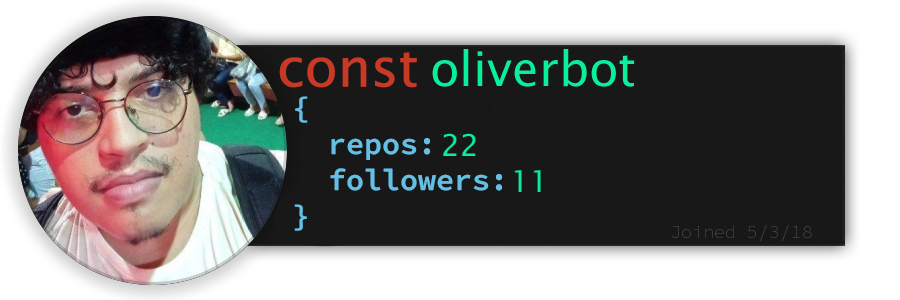
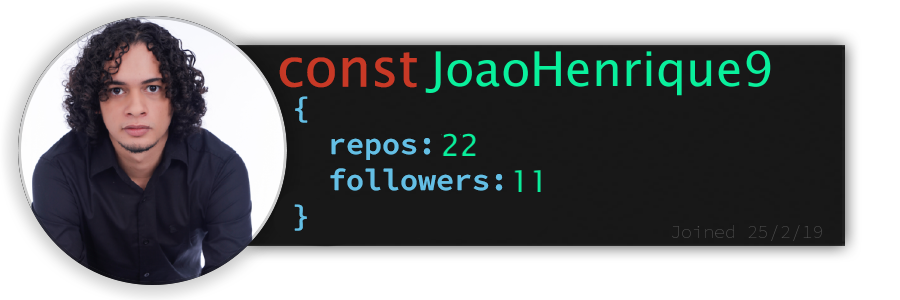
Generated readme

Changed region(s): [[0.0, 0.03, 0.3422, 0.96], [0.4667, 0.15, 0.8711, 0.33], [0.84, 0.75, 0.9022, 0.81]]

diff --git a/src/data.js b/src/data.js
@@ -27,7 +27,7 @@ module.exports = {
       },
       {
         type: 'badge',
-        name: 'website',
+        name: 'notion',
         href: 'http://bit.ly/biblioteca-devops',
         logo: 'notion',
       },
@@ -108,28 +108,16 @@ module.exports = {
     },
     links: [
       {
-        name: 'twitter',
-        href: 'https://twitter.com/imnickgabe',
-      },
-      {
         name: 'linkedin',
-        href: 'https://linkedin.com/in/nickgabe',
+        href: 'https://linkedin.com/in/joao-victor-barbosa-andrade/',
       },
       {
         name: 'email',
         logo: 'gmail',
-        href: 'mailto:nicolasgabrielctt@gmail.com',
+        href: 'mailto:jvbaprof@gmail.com',
       },
       {
-        name: 'npm',
-        href: 'https://www.npmjs.com/~nick-gabe',
-      },
-      {
-        name: 'codepen',
-        href: 'https://codepen.io/nick-gabe',
-      },
-      {
-        name: 'imnickgabe',
+        name: 'azbis',
         logo: 'discord',
         labelColor: colors.secondary.base,
       },

diff --git a/README.md b/README.md
@@ -1,6 +1,6 @@
 <p align="center"><img src="src/resources/images/nickgabe.png" width="600"/></p>
 <p align="center"><a href="https://linkedin.com/in/joao-victor-barbosa-andrade/"><img src="https://img.shields.io/badge/linkedin-4D4577?style=for-the-badge&logoColor=F2F2F2&logo=linkedin"/></a>
-<a href="http://bit.ly/biblioteca-devops"><img src="https://img.shields.io/badge/website-4D4577?logo=notion&style=for-the-badge&logoColor=F2F2F2"/></a>
+<a href="http://bit.ly/biblioteca-devops"><img src="https://img.shields.io/badge/notion-4D4577?logo=notion&style=for-the-badge&logoColor=F2F2F2"/></a>
 <img src="https://komarev.com/ghpvc/?username=JvDev-hash&style=for-the-badge&color=4D4577&logoColor=F2F2F2&logo=undefined"/></p>
 <p align="center">👋 Heyyy! I'm João Victor, a brazilian programmer and future Devops engineer.</p>
 
@@ -13,46 +13,46 @@
 
 ## **Skills wall:**
 
-<p align="left"><img src="https://img.shields.io/badge/express.js-393359?logo=express&style=for-the-badge&logoColor=F2F2F2"/>
-<img src="https://img.shields.io/badge/python-393359?logo=python&style=for-the-badge&logoColor=F2F2F2"/>
-<img src="https://img.shields.io/badge/shell%20script-4D4577?logo=gnu-bash&style=for-the-badge&logoColor=F2F2F2"/>
-<img src="https://img.shields.io/badge/photoshop-4D4577?logo=adobe-photoshop&style=for-the-badge&logoColor=F2F2F2"/>
-<img src="https://img.shields.io/badge/jest-393359?logo=jest&style=for-the-badge&logoColor=F2F2F2"/>
-<img src="https://img.shields.io/badge/figma-4D4577?logo=figma&style=for-the-badge&logoColor=F2F2F2"/>
-<img src="https://img.shields.io/badge/firebase-393359?logo=firebase&style=for-the-badge&logoColor=F2F2F2"/>
-<img src="https://img.shields.io/badge/git-F73C7B?logo=git&style=for-the-badge&logoColor=F2F2F2"/>
-<img src="https://img.shields.io/badge/graphql-4D4577?logo=graphql&style=for-the-badge&logoColor=F2F2F2"/>
-<img src="https://img.shields.io/badge/github%20actions-F73C7B?logo=github%20actions&style=for-the-badge&logoColor=F2F2F2"/>
-<img src="https://img.shields.io/badge/storybook-4D4577?logo=storybook&style=for-the-badge&logoColor=F2F2F2"/>
-<img src="https://img.shields.io/badge/ant--design-F73C7B?logo=ant-design&style=for-the-badge&logoColor=F2F2F2"/>
-<img src="https://img.shields.io/badge/sass-4D4577?logo=sass&style=for-the-badge&logoColor=F2F2F2"/>
-<img src="https://img.shields.io/badge/react-F73C7B?logo=react&style=for-the-badge&logoColor=F2F2F2"/>
-<img src="https://img.shields.io/badge/bootstrap-393359?logo=bootstrap&style=for-the-badge&logoColor=F2F2F2"/>
-<img src="https://img.shields.io/badge/fastapi-F73C7B?logo=fastapi&style=for-the-badge&logoColor=F2F2F2"/>
-<img src="https://img.shields.io/badge/heroku-4D4577?logo=heroku&style=for-the-badge&logoColor=F2F2F2"/>
+<p align="left"><img src="https://img.shields.io/badge/netlify-4D4577?logo=netlify&style=for-the-badge&logoColor=F2F2F2"/>
+<img src="https://img.shields.io/badge/html5-393359?logo=html5&style=for-the-badge&logoColor=F2F2F2"/>
 <img src="https://img.shields.io/badge/css3-F73C7B?logo=css3&style=for-the-badge&logoColor=F2F2F2"/>
-<img src="https://img.shields.io/badge/docker-F73C7B?logo=docker&style=for-the-badge&logoColor=F2F2F2"/>
-<img src="https://img.shields.io/badge/tailwindcss-F73C7B?logo=tailwindcss&style=for-the-badge&logoColor=F2F2F2"/>
-<img src="https://img.shields.io/badge/styled%20components-4D4577?logo=styled%20components&style=for-the-badge&logoColor=F2F2F2"/>
-<img src="https://img.shields.io/badge/markdown-393359?logo=markdown&style=for-the-badge&logoColor=F2F2F2"/>
-<img src="https://img.shields.io/badge/node.js-F73C7B?logo=node.js&style=for-the-badge&logoColor=F2F2F2"/>
-<img src="https://img.shields.io/badge/github-4D4577?logo=github&style=for-the-badge&logoColor=F2F2F2"/>
-<img src="https://img.shields.io/badge/visual%20studio%20code-393359?logo=visual%20studio%20code&style=for-the-badge&logoColor=F2F2F2"/>
-<img src="https://img.shields.io/badge/jquery-393359?logo=jquery&style=for-the-badge&logoColor=F2F2F2"/>
-<img src="https://img.shields.io/badge/mongodb-4D4577?logo=mongodb&style=for-the-badge&logoColor=F2F2F2"/>
-<img src="https://img.shields.io/badge/sqlite-393359?logo=sqlite&style=for-the-badge&logoColor=F2F2F2"/>
-<img src="https://img.shields.io/badge/flask-393359?logo=flask&style=for-the-badge&logoColor=F2F2F2"/>
-<img src="https://img.shields.io/badge/github%20pages-4D4577?logo=github&style=for-the-badge&logoColor=F2F2F2"/>
-<img src="https://img.shields.io/badge/html5-4D4577?logo=html5&style=for-the-badge&logoColor=F2F2F2"/>
-<img src="https://img.shields.io/badge/npm-4D4577?logo=npm&style=for-the-badge&logoColor=F2F2F2"/>
-<img src="https://img.shields.io/badge/typescript-F73C7B?logo=typescript&style=for-the-badge&logoColor=F2F2F2"/>
-<img src="https://img.shields.io/badge/jira-393359?logo=jira&style=for-the-badge&logoColor=F2F2F2"/>
-<img src="https://img.shields.io/badge/strapi-4D4577?logo=strapi&style=for-the-badge&logoColor=F2F2F2"/>
-<img src="https://img.shields.io/badge/chakra-4D4577?logo=chakraui&style=for-the-badge&logoColor=F2F2F2"/>
-<img src="https://img.shields.io/badge/javascript-F73C7B?logo=javascript&style=for-the-badge&logoColor=F2F2F2"/>
-<img src="https://img.shields.io/badge/vercel-4D4577?logo=vercel&style=for-the-badge&logoColor=F2F2F2"/>
 <img src="https://img.shields.io/badge/react%20native-393359?logo=react&style=for-the-badge&logoColor=F2F2F2"/>
-<img src="https://img.shields.io/badge/netlify-393359?logo=netlify&style=for-the-badge&logoColor=F2F2F2"/></p>
+<img src="https://img.shields.io/badge/react-F73C7B?logo=react&style=for-the-badge&logoColor=F2F2F2"/>
+<img src="https://img.shields.io/badge/visual%20studio%20code-393359?logo=visual%20studio%20code&style=for-the-badge&logoColor=F2F2F2"/>
+<img src="https://img.shields.io/badge/markdown-393359?logo=markdown&style=for-the-badge&logoColor=F2F2F2"/>
+<img src="https://img.shields.io/badge/github%20pages-4D4577?logo=github&style=for-the-badge&logoColor=F2F2F2"/>
+<img src="https://img.shields.io/badge/node.js-F73C7B?logo=node.js&style=for-the-badge&logoColor=F2F2F2"/>
+<img src="https://img.shields.io/badge/github%20actions-F73C7B?logo=github%20actions&style=for-the-badge&logoColor=F2F2F2"/>
+<img src="https://img.shields.io/badge/bootstrap-393359?logo=bootstrap&style=for-the-badge&logoColor=F2F2F2"/>
+<img src="https://img.shields.io/badge/tailwindcss-F73C7B?logo=tailwindcss&style=for-the-badge&logoColor=F2F2F2"/>
+<img src="https://img.shields.io/badge/python-393359?logo=python&style=for-the-badge&logoColor=F2F2F2"/>
+<img src="https://img.shields.io/badge/heroku-393359?logo=heroku&style=for-the-badge&logoColor=F2F2F2"/>
+<img src="https://img.shields.io/badge/chakra-393359?logo=chakraui&style=for-the-badge&logoColor=F2F2F2"/>
+<img src="https://img.shields.io/badge/git-F73C7B?logo=git&style=for-the-badge&logoColor=F2F2F2"/>
+<img src="https://img.shields.io/badge/javascript-F73C7B?logo=javascript&style=for-the-badge&logoColor=F2F2F2"/>
+<img src="https://img.shields.io/badge/jquery-4D4577?logo=jquery&style=for-the-badge&logoColor=F2F2F2"/>
+<img src="https://img.shields.io/badge/sass-393359?logo=sass&style=for-the-badge&logoColor=F2F2F2"/>
+<img src="https://img.shields.io/badge/typescript-F73C7B?logo=typescript&style=for-the-badge&logoColor=F2F2F2"/>
+<img src="https://img.shields.io/badge/photoshop-393359?logo=adobe-photoshop&style=for-the-badge&logoColor=F2F2F2"/>
+<img src="https://img.shields.io/badge/strapi-4D4577?logo=strapi&style=for-the-badge&logoColor=F2F2F2"/>
+<img src="https://img.shields.io/badge/jest-393359?logo=jest&style=for-the-badge&logoColor=F2F2F2"/>
+<img src="https://img.shields.io/badge/storybook-393359?logo=storybook&style=for-the-badge&logoColor=F2F2F2"/>
+<img src="https://img.shields.io/badge/docker-F73C7B?logo=docker&style=for-the-badge&logoColor=F2F2F2"/>
+<img src="https://img.shields.io/badge/graphql-393359?logo=graphql&style=for-the-badge&logoColor=F2F2F2"/>
+<img src="https://img.shields.io/badge/firebase-393359?logo=firebase&style=for-the-badge&logoColor=F2F2F2"/>
+<img src="https://img.shields.io/badge/npm-4D4577?logo=npm&style=for-the-badge&logoColor=F2F2F2"/>
+<img src="https://img.shields.io/badge/fastapi-F73C7B?logo=fastapi&style=for-the-badge&logoColor=F2F2F2"/>
+<img src="https://img.shields.io/badge/flask-4D4577?logo=flask&style=for-the-badge&logoColor=F2F2F2"/>
+<img src="https://img.shields.io/badge/figma-393359?logo=figma&style=for-the-badge&logoColor=F2F2F2"/>
+<img src="https://img.shields.io/badge/mongodb-4D4577?logo=mongodb&style=for-the-badge&logoColor=F2F2F2"/>
+<img src="https://img.shields.io/badge/shell%20script-4D4577?logo=gnu-bash&style=for-the-badge&logoColor=F2F2F2"/>
+<img src="https://img.shields.io/badge/express.js-4D4577?logo=express&style=for-the-badge&logoColor=F2F2F2"/>
+<img src="https://img.shields.io/badge/vercel-4D4577?logo=vercel&style=for-the-badge&logoColor=F2F2F2"/>
+<img src="https://img.shields.io/badge/github-4D4577?logo=github&style=for-the-badge&logoColor=F2F2F2"/>
+<img src="https://img.shields.io/badge/styled%20components-393359?logo=styled%20components&style=for-the-badge&logoColor=F2F2F2"/>
+<img src="https://img.shields.io/badge/sqlite-393359?logo=sqlite&style=for-the-badge&logoColor=F2F2F2"/>
+<img src="https://img.shields.io/badge/jira-4D4577?logo=jira&style=for-the-badge&logoColor=F2F2F2"/>
+<img src="https://img.shields.io/badge/ant--design-F73C7B?logo=ant-design&style=for-the-badge&logoColor=F2F2F2"/></p>
 
 ## **Recent projects:**
 
@@ -67,18 +67,15 @@
 
 *Click to be redirected*
 
-<p align="left"><a href="https://twitter.com/imnickgabe"><img src="https://img.shields.io/badge/twitter-4D4577?style=for-the-badge&logoColor=F2F2F2&logo=twitter"/></a>
-<a href="https://linkedin.com/in/nickgabe"><img src="https://img.shields.io/badge/linkedin-4D4577?style=for-the-badge&logoColor=F2F2F2&logo=linkedin"/></a>
-<a href="mailto:nicolasgabrielctt@gmail.com"><img src="https://img.shields.io/badge/email-4D4577?logo=gmail&style=for-the-badge&logoColor=F2F2F2"/></a>
-<a href="https://www.npmjs.com/~nick-gabe"><img src="https://img.shields.io/badge/npm-4D4577?style=for-the-badge&logoColor=F2F2F2&logo=npm"/></a>
-<a href="https://codepen.io/nick-gabe"><img src="https://img.shields.io/badge/codepen-4D4577?style=for-the-badge&logoColor=F2F2F2&logo=codepen"/></a>
-<img src="https://img.shields.io/badge/imnickgabe-4D4577?logo=discord&labelColor=393359&style=for-the-badge&logoColor=F2F2F2"/></p>
+<p align="left"><a href="https://linkedin.com/in/joao-victor-barbosa-andrade/"><img src="https://img.shields.io/badge/linkedin-4D4577?style=for-the-badge&logoColor=F2F2F2&logo=linkedin"/></a>
+<a href="mailto:jvbaprof@gmail.com"><img src="https://img.shields.io/badge/email-4D4577?logo=gmail&style=for-the-badge&logoColor=F2F2F2"/></a>
+<img src="https://img.shields.io/badge/azbis-4D4577?logo=discord&labelColor=393359&style=for-the-badge&logoColor=F2F2F2"/></p>
 
 ## **Follower of the day**
 
 *Showcases a random GitHub follower here everyday*
 
-<a href="https://github.com/oliverbot" alt="Ruhan Monte"><img style="height:150px;" src=./src/resources/images/randomFollower.png alt="Follower of the day"/></a>
+<a href="https://github.com/JoaoHenrique9" alt="João Henrique"><img style="height:150px;" src=./src/resources/images/randomFollower.png alt="Follower of the day"/></a>
 
 <hr>
 
